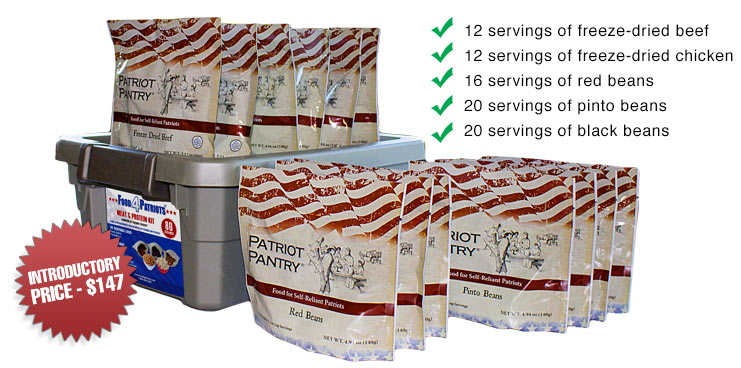
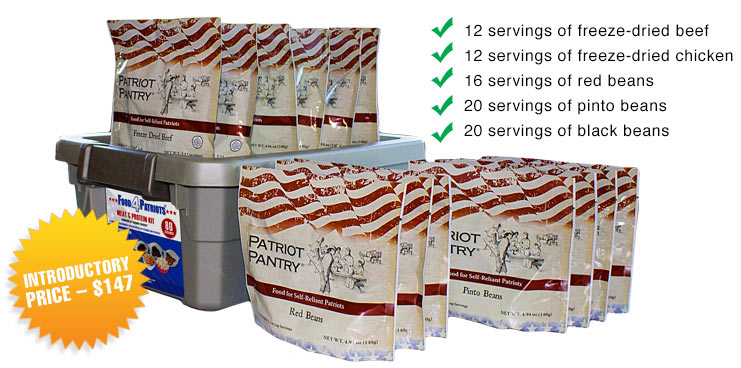
FFP-692 Introductory Price Angle

Changed region(s): [[0.0, 0.5679, 0.2173, 0.9565]]

diff --git a/letter/protein/content.php b/letter/protein/content.php
@@ -177,7 +177,7 @@
 
 
 	<div class="margin-tb-50 center-block text-center">
-		<img class="img-responsive center-block margin-tb-20" src="/media/images/f4p/f4p-product-img-protein-kit-04.jpg" alt="Meat &amp; Protein Kit">
+		<img class="img-responsive center-block margin-tb-20" src="/media/images/f4p/f4p-product-img-protein-kit-05.jpg" alt="Meat &amp; Protein Kit">
 		<a href="<?php echo $offerUrl; ?>"><img src="/assets/images/buttons/btn-orange-add-cart-protein.jpg" class="img-responsive center-block" alt="Add To Cart"><strong>Add to Cart - $147</strong></a>
 	</div>
 
